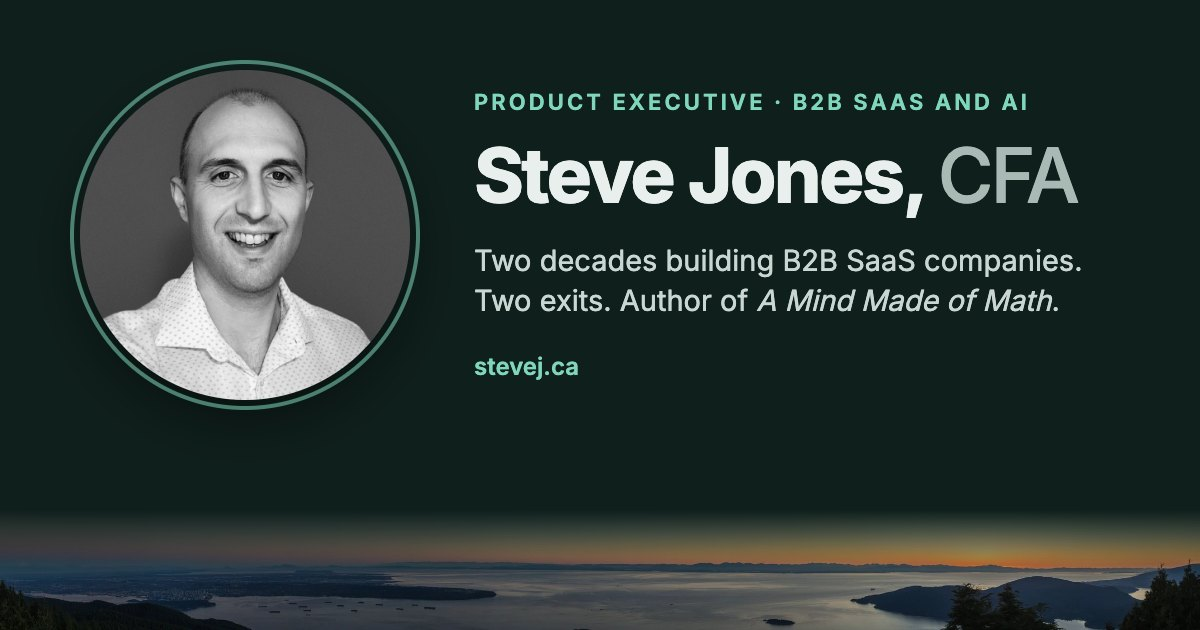
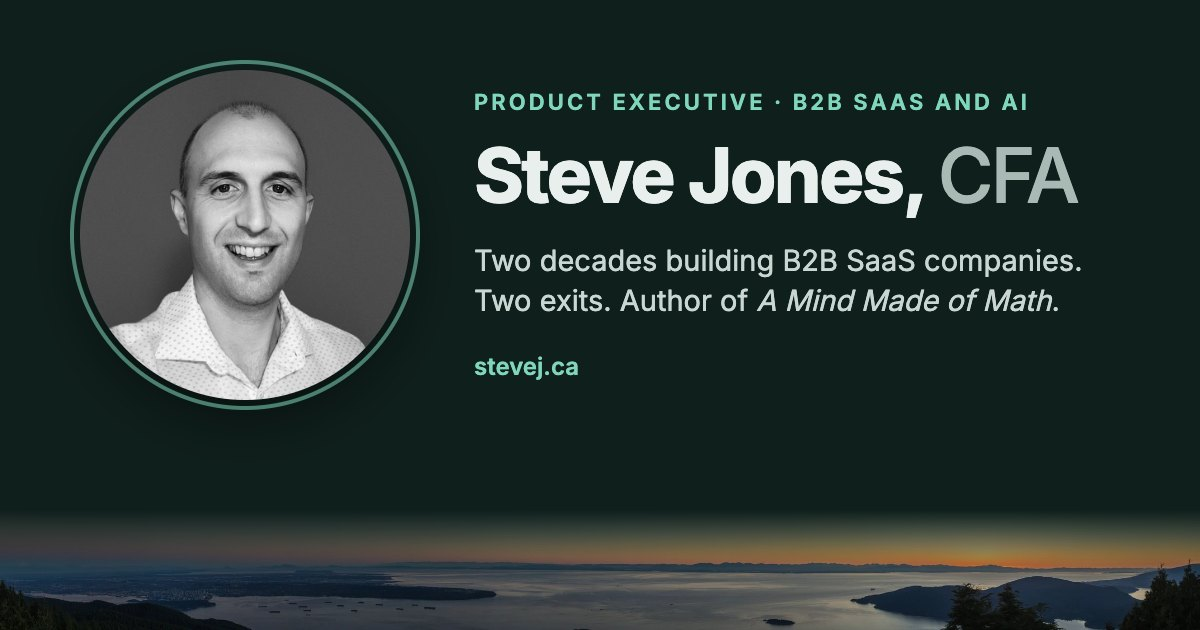
Headshot: a little more headroom

Changed region(s): [[0.0925, 0.1508, 0.3083, 0.6333]]

diff --git a/index.html b/index.html
@@ -146,7 +146,7 @@
           </div>
         </div>
         <figure class="hero-portrait">
-          <img src="img/steve-jones.jpg?v=202610030038" width="800" height="800" alt="Portrait of Steve Jones" fetchpriority="high">
+          <img src="img/steve-jones.jpg?v=202610030041" width="800" height="800" alt="Portrait of Steve Jones" fetchpriority="high">
         </figure>
       </div>
       <div class="panorama" role="img" aria-label="Panoramic sunset over the ocean and coastal mountains">
